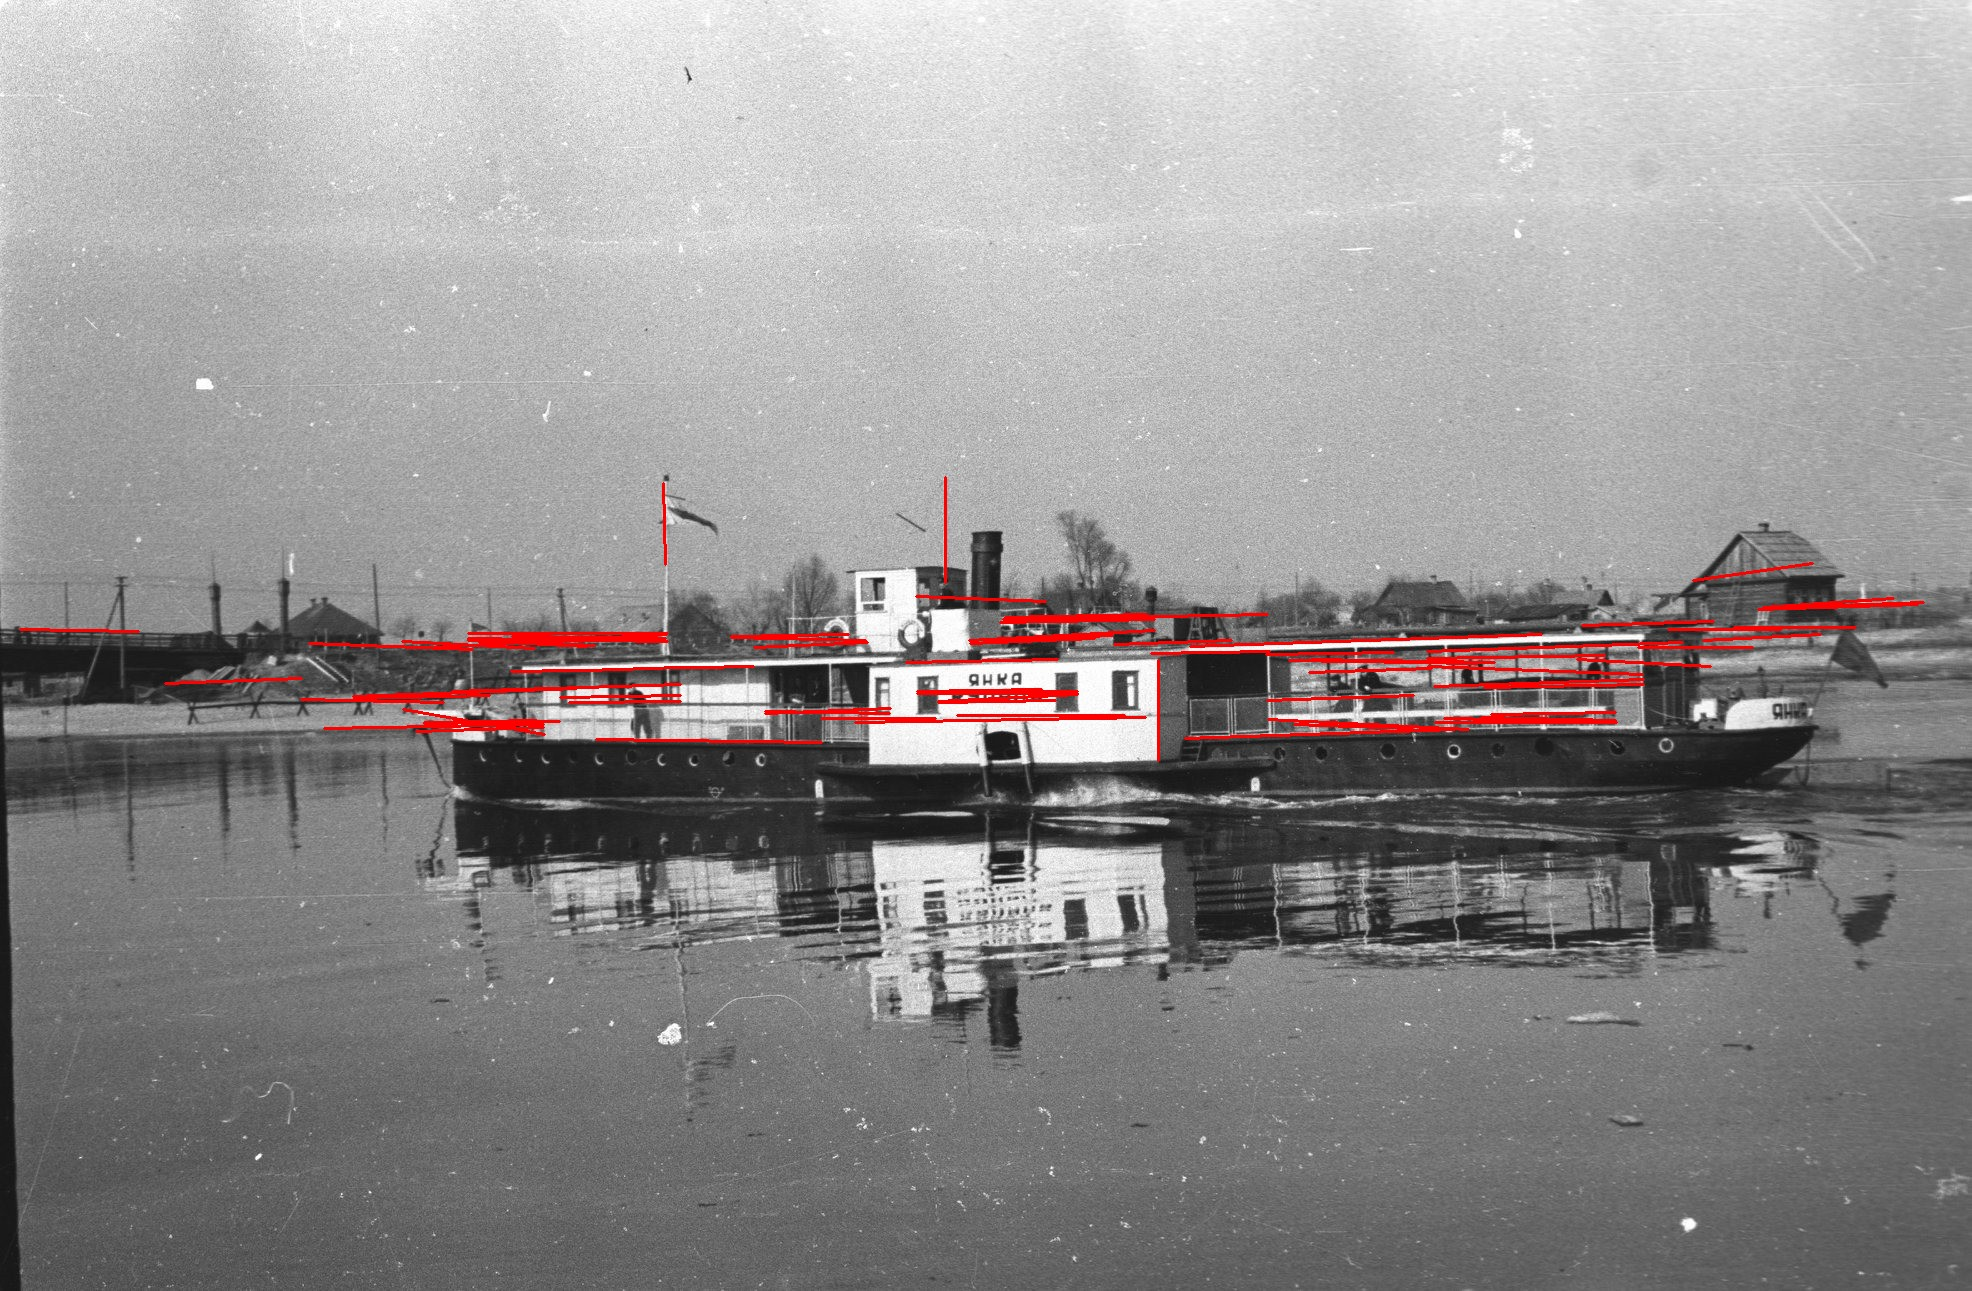
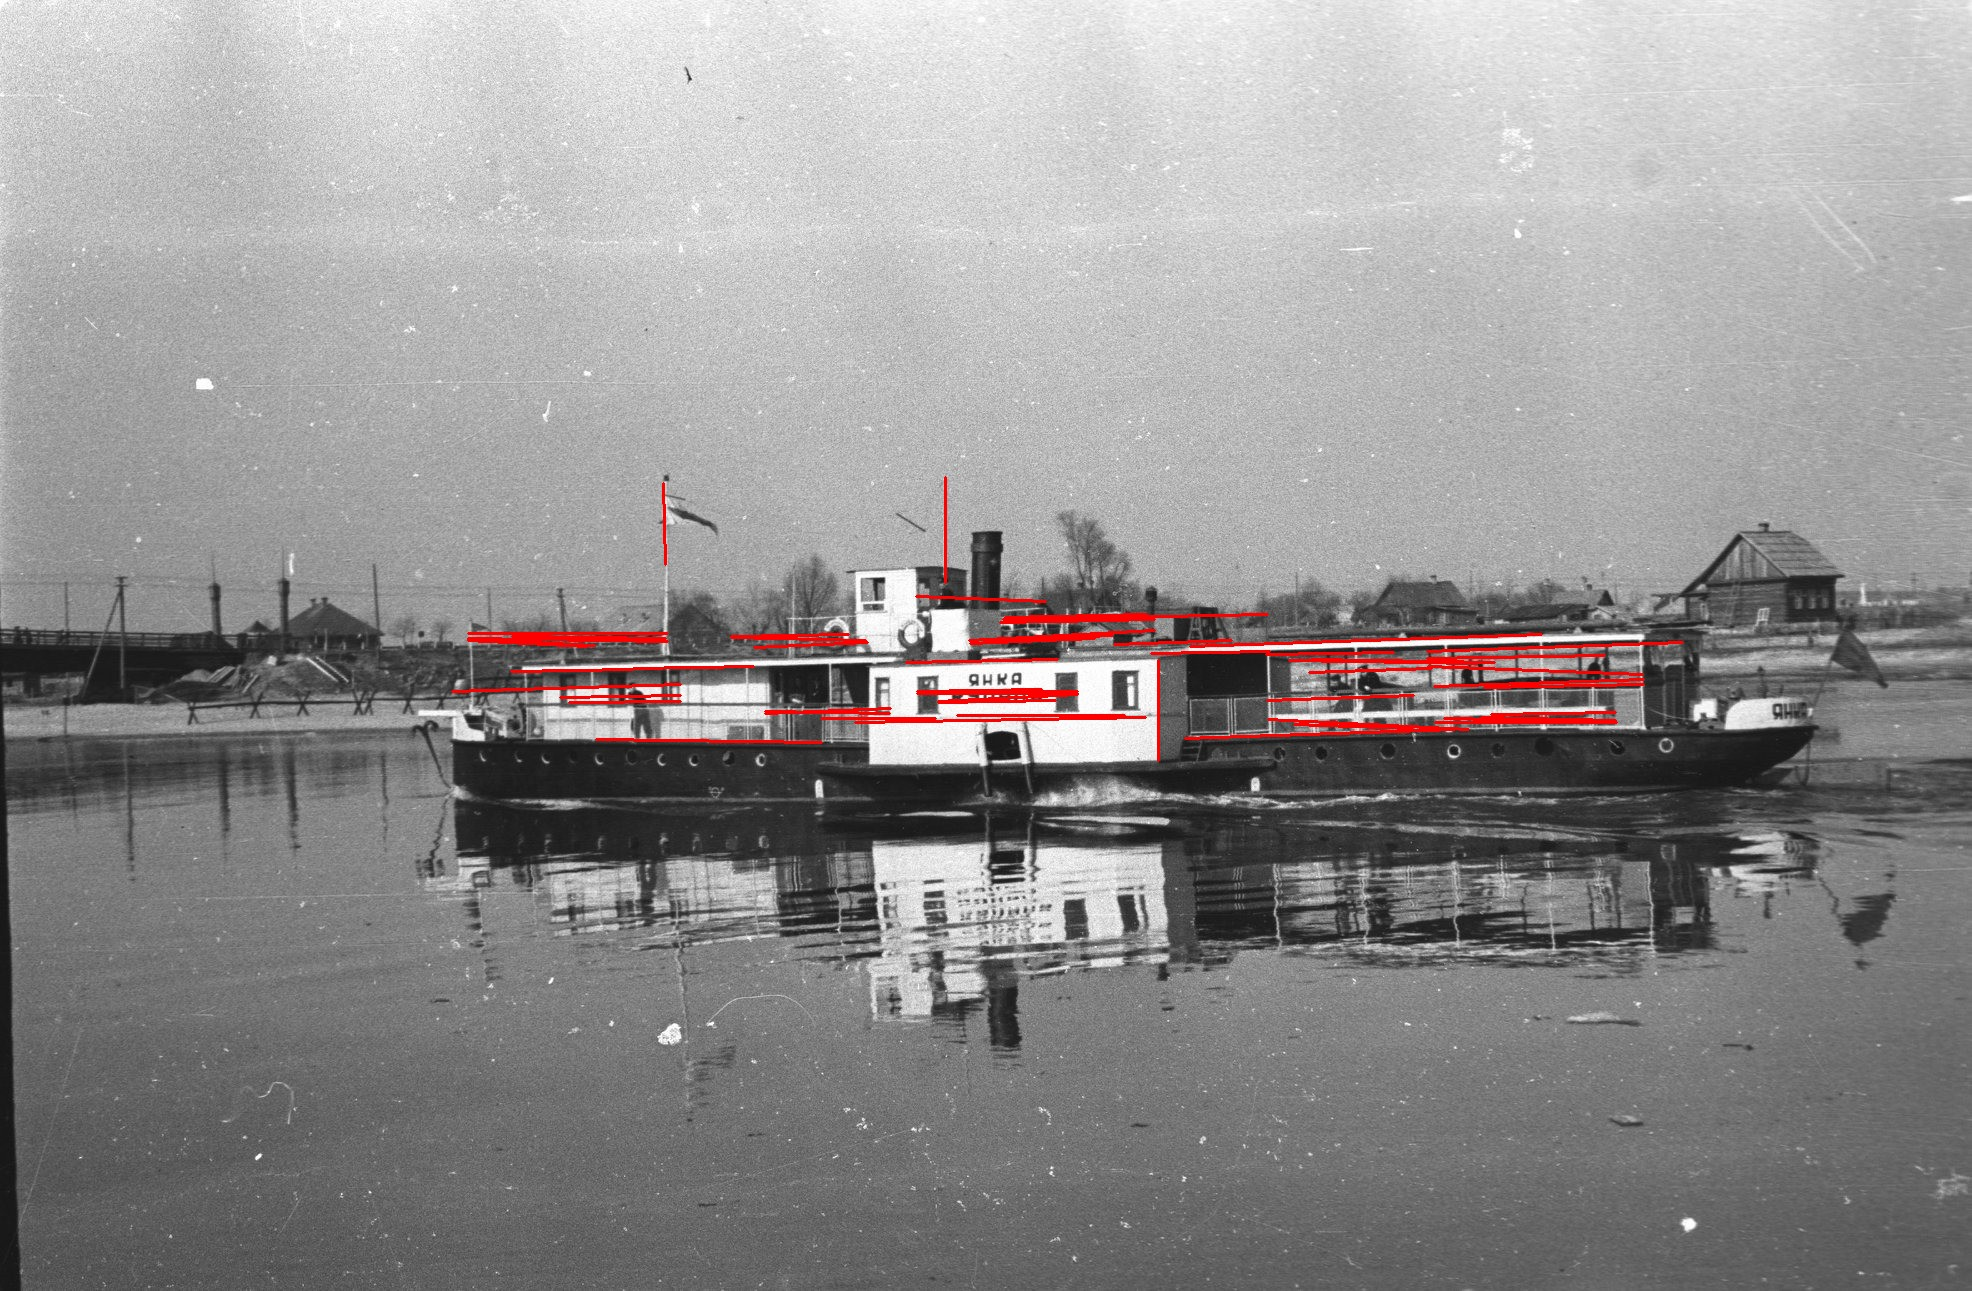
fix: stop marking the bridge and house as hull lines in lab 4
Hull line selection only checked the height band and the angle, so the
bridge on the left and the house on the right at the same height were
drawn in red too. A width band of x = 444-1696 px is added, tuned on the
frame (bow at x~460, stern at x~1705) the same way the height band
already is. An automatic boundary did not work: the water under the
bridge, the boat and the house gives a continuous dark background and a
uniform Canny edge density.
Hull lines: 55 instead of 78, all of them on the boat.

diff --git a/Lab4/lines.py b/Lab4/lines.py
@@ -38,16 +38,27 @@ def main() -> None:
     kept = 0
     if lines is not None:
         lines = np.asarray(lines).reshape(-1, 4)
+        # Мост слева и дом справа лежат в той же полосе по высоте, что и
+        # корпус, и визуально не отделяются от него ни плотностью рёбер
+        # Канни (вода под всеми тремя даёт сплошной тёмный фон), ни яркостью
+        # (дом и корпус одинаково тёмные). Поэтому полоса по x, как и полоса
+        # по высоте выше, задаётся явно по пикселям теплохода на кадре
+        # 1972x1291: нос слева x≈460, корма второго судна справа x≈1705;
+        # мост заканчивается левее x≈400, дом начинается правее x≈1650.
+        x_min = 0.225 * width
+        x_max = 0.860 * width
+
         for x1, y1, x2, y2 in lines:
             total += 1
             length = float(np.hypot(x2 - x1, y2 - y1))
             angle = line_angle_deg(int(x1), int(y1), int(x2), int(y2))
             mid_y = 0.5 * (y1 + y2)
             cv2.line(all_lines, (int(x1), int(y1)), (int(x2), int(y2)), (0, 180, 0), 2)
-            in_hull_band = 0.30 * height <= mid_y <= 0.58 * height
+            in_band = 0.30 * height <= mid_y <= 0.58 * height
+            in_hull_span = x_min <= min(x1, x2) and max(x1, x2) <= x_max
             horizontal = angle <= 16.0 and length >= 110.0
             vertical = angle >= 72.0 and length >= 35.0
-            if in_hull_band and (horizontal or vertical):
+            if in_band and in_hull_span and (horizontal or vertical):
                 cv2.line(ship, (int(x1), int(y1)), (int(x2), int(y2)), (0, 0, 255), 2)
                 kept += 1
 

diff --git a/Lab4/README.md b/Lab4/README.md
@@ -1,6 +1,6 @@
 # Практика 4. Выделение линий
 
-Теплоход на `boat1.jpg` выделяется прямыми: контур Кэнни и преобразование Хафа. В `output/ship_lines.jpg` красным оставлены длинные почти горизонтальные линии корпуса и палубы и короткие вертикальные линии надстройки. Полоса по высоте кадра отсекает отражение в воде. `output/all_lines.jpg` показывает все найденные отрезки.
+Теплоход на `boat1.jpg` выделяется прямыми: контур Кэнни и преобразование Хафа. В `output/ship_lines.jpg` красным оставлены длинные почти горизонтальные линии корпуса и палубы и короткие вертикальные линии надстройки. Полоса по высоте кадра отсекает отражение в воде, полоса по ширине — мост слева и дом справа на той же высоте. `output/all_lines.jpg` показывает все найденные отрезки.
 
 В задании имя файла не указано. Взят `boat1.jpg`: на нём теплоход снят сбоку.
 
